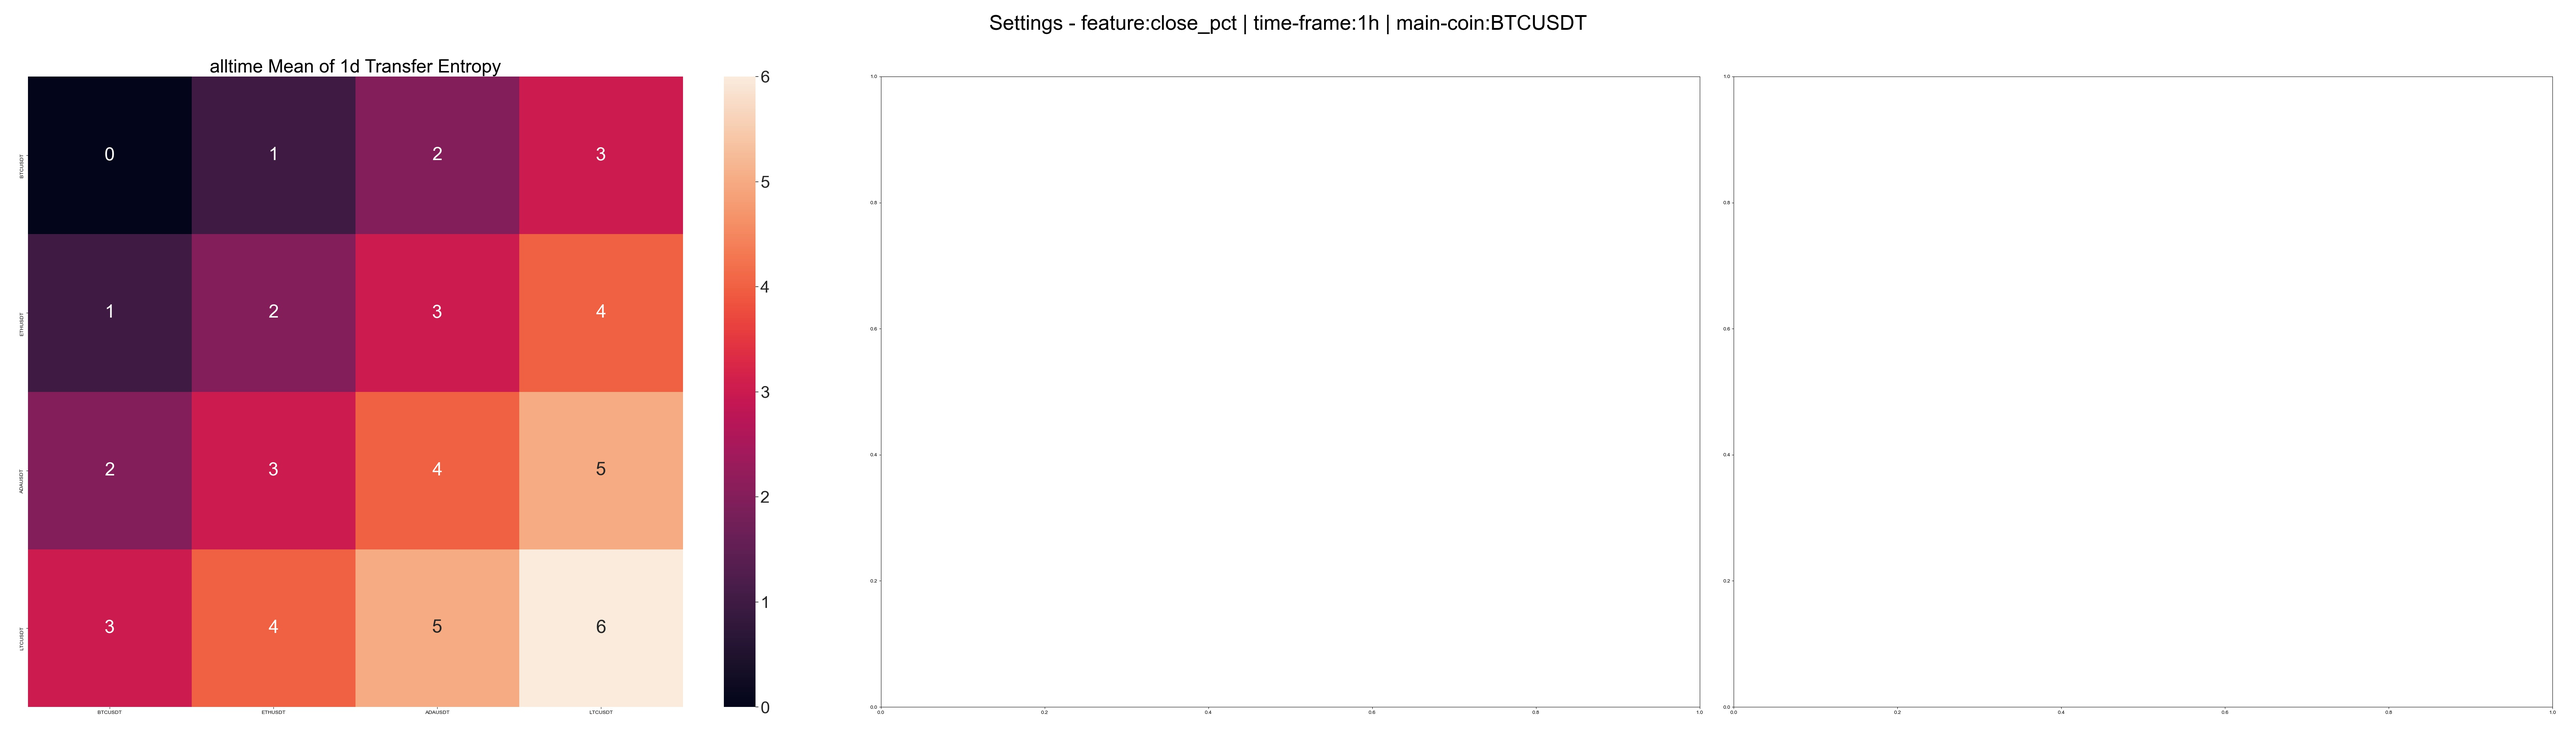
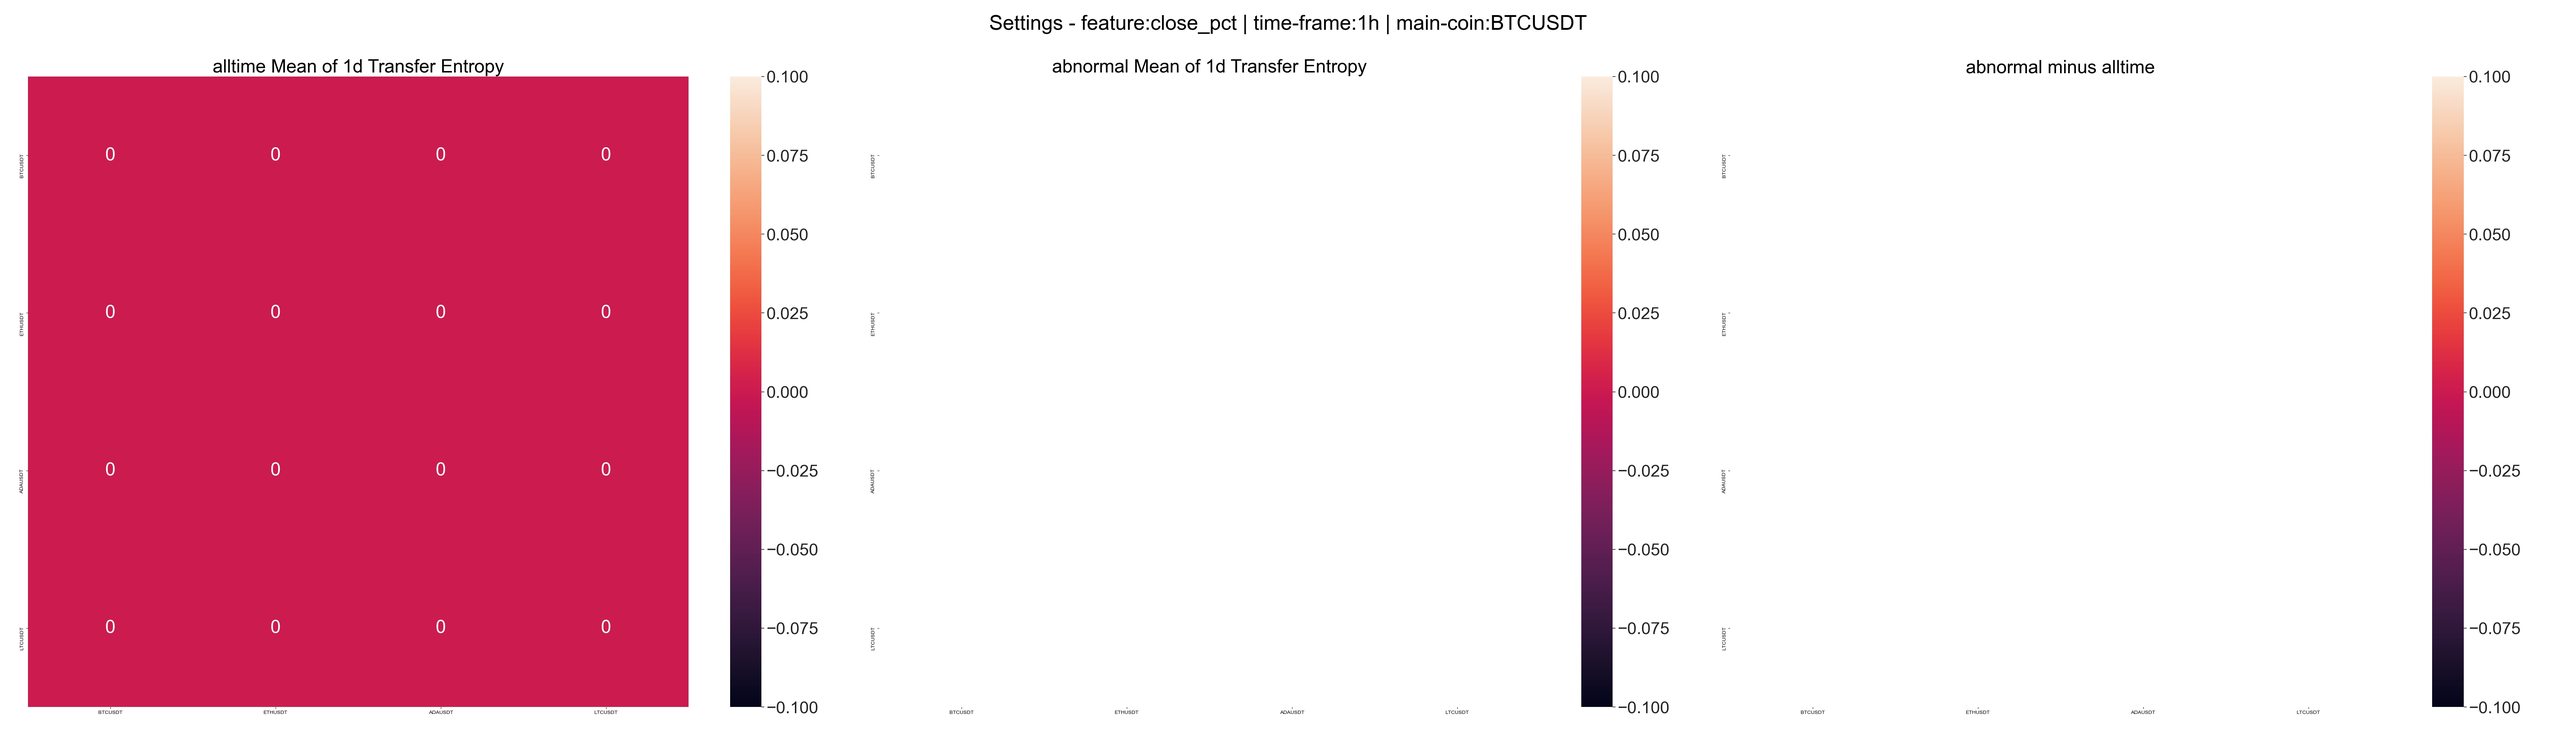
not sure working.

diff --git a/transfer_entropy_research.py b/transfer_entropy_research.py
@@ -1,6 +1,6 @@
 from DataManagement.data_manager import DataManager
 from DataManagement.coin_data import CoinData
-from TransferEntropy.transfer_entropy import TransferEntropy
+from TransferEntropy.transfer_entropy import get_transfer_entropy
 from constants import ATR_ABNORMALITY_COLUMN
 # libs
 import pandas as pd
@@ -16,30 +16,30 @@ feature = "close_pct"
 kline_size = "1h"
 main_coin_symbol = "BTCUSDT"
 transfer_entropy_lookback = 3
-num_samples = 1000
 suptitle_fontsize = 40
 font_scale = 3
 candle_size = "1d"
+num_samples = 1440 # 60*24
 
 class TransferEntropyResearch():
 
     def __init__(self):
 
         self.data_manager = DataManager()
-        self.transfer_entropy = TransferEntropy(lookback=transfer_entropy_lookback, window_size=num_samples)
+        # self.transfer_entropy = TransferEntropy(lookback=transfer_entropy_lookback, window_size=num_samples)
 
         self.main_1d_df = self.data_manager.get_historical_data_CoinData(main_coin_symbol, kline_size="1d").df
-        # self.coin_data_list = [self.data_manager.get_historical_data_CoinData(coin_symbol, kline_size="1m") for coin_symbol in coin_symbol_list]
+        self.coin_data_list = [self.data_manager.get_historical_data_CoinData(coin_symbol, kline_size="1m") for coin_symbol in coin_symbol_list]
         # main_1h_df = data_manager.get_historical_data_CoinData(main_coin_symbol, kline_size="1h").df
         self.main_abnormal_timestamp_list = self.main_1d_df[self.main_1d_df[ATR_ABNORMALITY_COLUMN] == 1].index
-        
+        print(self.main_abnormal_timestamp_list)
         self.df = None
-        rows = 500
-        cols = 4
-        a = np.array([[i]*rows for i in range(cols)])
-        self.df = pd.DataFrame(columns=[f"col{i}" for i in range(cols)], data=a.T)
-        self.df["timestamp"] = pd.date_range("2018-01-01", periods=rows, freq="h")
-        self.df.set_index(keys=["timestamp"], inplace=True)
+        # rows = 500
+        # cols = 4
+        # a = np.array([[i]*rows for i in range(cols)])
+        # self.df = pd.DataFrame(columns=[f"col{i}" for i in range(cols)], data=a.T)
+        # self.df["timestamp"] = pd.date_range("2018-01-01", periods=rows, freq="h")
+        # self.df.set_index(keys=["timestamp"], inplace=True)
         
     def join_dataframes(self):
         self.df = pd.DataFrame(index=self.coin_data_list[0].df.index)
@@ -53,26 +53,14 @@ class TransferEntropyResearch():
         self.df.set_index("timestamp", inplace=True)
         # return df
 
-    def get_transfer_entropy_matrix_list(self):
+    def get_transfer_entropy_matrix_list_old(self):
         num_cols = self.df.shape[1]
 
         alltime_correlation_matrix_list, abnormal_correlation_matrix_list = [],[]
         resampled_list = np.array(self.df.resample("1d"))
         
-        # print(num_cols, len(resampled_list))
-        # print(result)
-        # print(result.shape)
-        # print(result[0])
-        # print(result[0].shape)
-
-        # # print(resampled_list[0])
         resampled_array = np.array([temp_df.to_numpy() for _, temp_df in resampled_list])
-        # print(resampled_array[0])
-        # print(resampled_array)
-        # resampled_array = resampled_array.reshape((24, 4))
-        # print(resampled_array)
-        # print(resampled_array[:2])
-        # print(resampled_array[:2][0].shape)
+        
         r = 0
         for iter, timestamp in enumerate([timestamp for timestamp, _ in resampled_list]):
             temp_correl_matrix = np.empty(shape=(num_cols, num_cols))
@@ -82,10 +70,13 @@ class TransferEntropyResearch():
 
             for i in range(num_cols):
                 for j in range(num_cols):
-                    arr1 = [arr[:, i] for arr in resampled_array[iter-transfer_entropy_lookback:iter]]
-                    arr2 = [arr[:, j] for arr in resampled_array[iter-transfer_entropy_lookback:iter]]
-                    # temp_correl_matrix[i,j] = self.transfer_entropy.get_transfer_entropy(arr1, arr2)
-                    temp_correl_matrix[i,j] = i+j
+                    arr1 = np.array([arr[:, i] for arr in resampled_array[iter-transfer_entropy_lookback:iter]])
+                    arr2 = np.array([arr[:, j] for arr in resampled_array[iter-transfer_entropy_lookback:iter]])
+                    transfer_entropy = get_transfer_entropy(arr1, arr2)
+                    temp_correl_matrix[i,j] = 0 if np.isnan(transfer_entropy) else transfer_entropy
+                    # temp_correl_matrix[i,j] = i+j
+            
+            # print(temp_correl_matrix)
             if timestamp in self.main_abnormal_timestamp_list:
                 abnormal_correlation_matrix_list.append(temp_correl_matrix)
 
@@ -95,8 +86,57 @@ class TransferEntropyResearch():
                 break
             r+=1
 
+        return np.array(alltime_correlation_matrix_list), np.array(abnormal_correlation_matrix_list)
 
-        # print(alltime_correlation_matrix_lis)
+    def get_transfer_entropy_matrix_list(self):
+        num_cols = self.df.shape[1]
+
+        alltime_correlation_matrix_list, abnormal_correlation_matrix_list = [],[]
+        resampled_list = np.array(self.df.resample(candle_size)) # 1d
+        
+        # resampled_array = np.array([temp_df.to_numpy() for _, temp_df in resampled_list])
+        
+        r = 0
+        for iter, timestamp in enumerate([timestamp for timestamp, _ in resampled_list]):
+            temp_correl_matrix = np.empty(shape=(num_cols, num_cols))
+            
+            if iter < transfer_entropy_lookback:
+                continue
+            
+            for i, coli in enumerate(self.df.columns):
+                for j, colj in enumerate(self.df.columns):
+                    is_skip = False
+                    arr1 = [temp_df[coli].to_numpy() for _, temp_df in resampled_list[iter-transfer_entropy_lookback:iter]]
+                    arr2 = [temp_df[colj].to_numpy() for _, temp_df in resampled_list[iter-transfer_entropy_lookback:iter]]
+                    
+                    for a1, a2 in zip(arr1, arr2):
+                        # print(len(a1), len(a2))
+                        if len(a1) != 1440 or len(a2) != 1440:
+                            is_skip = True
+                            # print(is_skip)
+                            break
+
+                    # print(is_skip)
+
+                    # print(arr1)
+                    # print(arr2)
+                    transfer_entropy = 0 if is_skip else get_transfer_entropy(np.flip(arr1, axis=0), np.flip(arr2, axis=0))
+                    temp_correl_matrix[i,j] = 0 if np.isnan(transfer_entropy) else transfer_entropy
+                    # quit()
+                    # temp_correl_matrix[i,j] = i+j
+            
+            # print(temp_correl_matrix)
+            # print(timestamp)
+            if timestamp in self.main_abnormal_timestamp_list:
+                print(timestamp)
+                print("enter")
+                abnormal_correlation_matrix_list.append(temp_correl_matrix)
+
+            alltime_correlation_matrix_list.append(temp_correl_matrix)
+            
+            # if r == 3:
+            #     break
+            # r+=1
 
         return np.array(alltime_correlation_matrix_list), np.array(abnormal_correlation_matrix_list)
                 
@@ -134,6 +174,7 @@ class TransferEntropyResearch():
 
 if __name__ == '__main__':
     te_research = TransferEntropyResearch()
-    # te_research.join_dataframes()
+    te_research.join_dataframes()
     # te_research.get_transfer_entropy_matrix_list()
     te_research.plot_heatmap()
+    print("finished")
